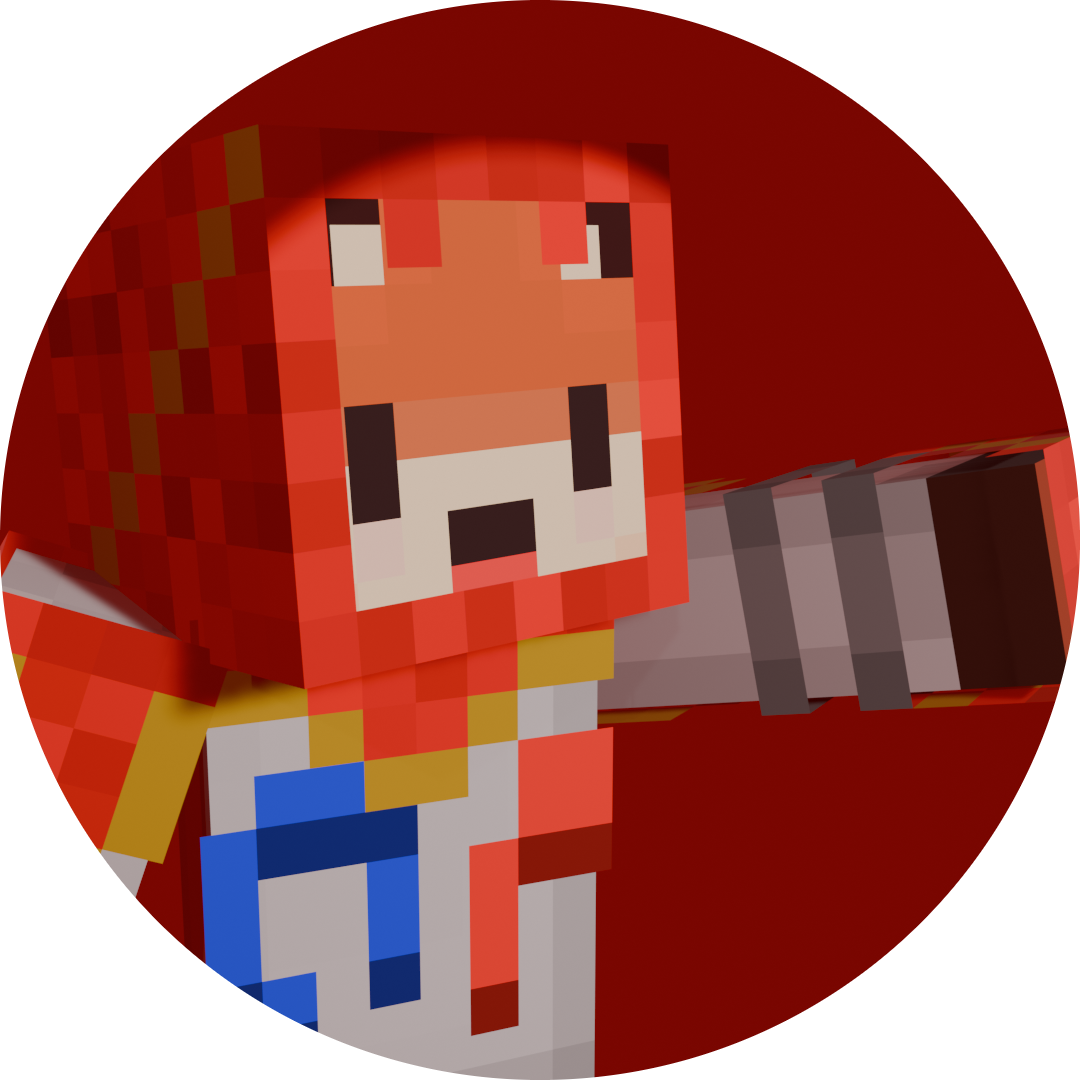
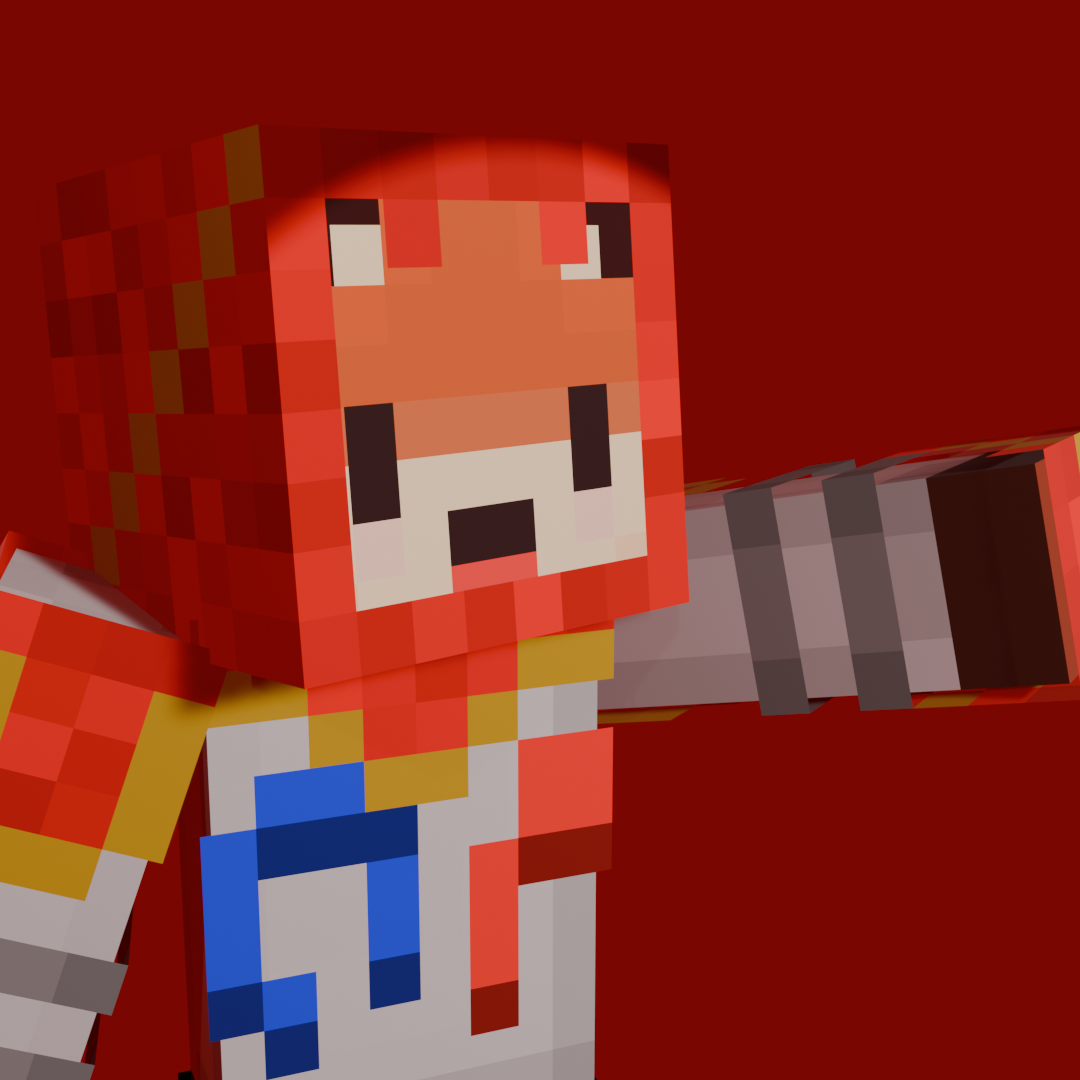
v.1.1

diff --git a/style.css b/style.css
@@ -1,5 +1,9 @@
 @import url('https://fonts.googleapis.com/css2?family=Madimi+One&display=swap');
 
+:root{
+    --main-color: #790600;
+}
+
 *{
     margin: 0;
     padding: 0;
@@ -36,7 +40,11 @@ body{
     align-items: center;
 }
 #socials_options div{
-    padding-top: 20px;
+    margin-top: 10px;
+    padding: 10px;
+    background-color: white;
+    border-radius: 15px;
+
 }
 #socials_options img{
     max-width: 60px;
@@ -47,15 +55,15 @@ body{
     right: 0;
     height: 100px;
     width: 100px;
-    background-color: rgb(255, 148, 48);
+    background-color: var(--main-color);
     border-radius: 15px;
     margin: 1.5vh;
 }
 #avatar_img{
     display: flex;
     justify-content: center;
-    padding-top: 10px;
 }
 #avatar img{
-    max-width: 80px;
+    max-width: 100px;
+    border-radius: 15px;
 }
